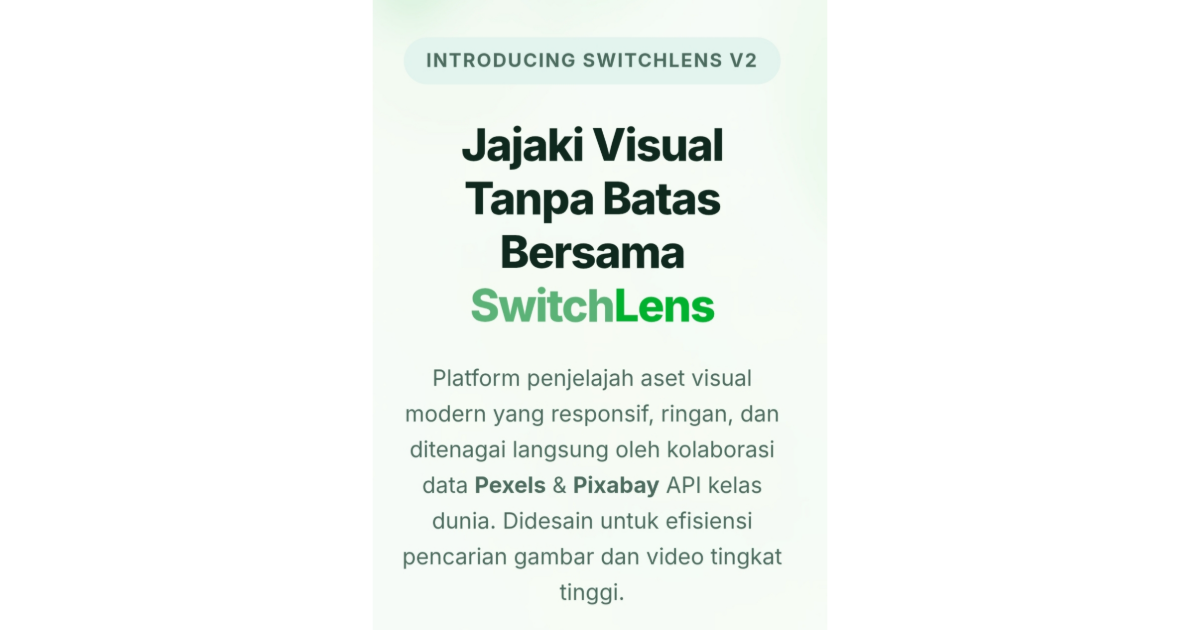
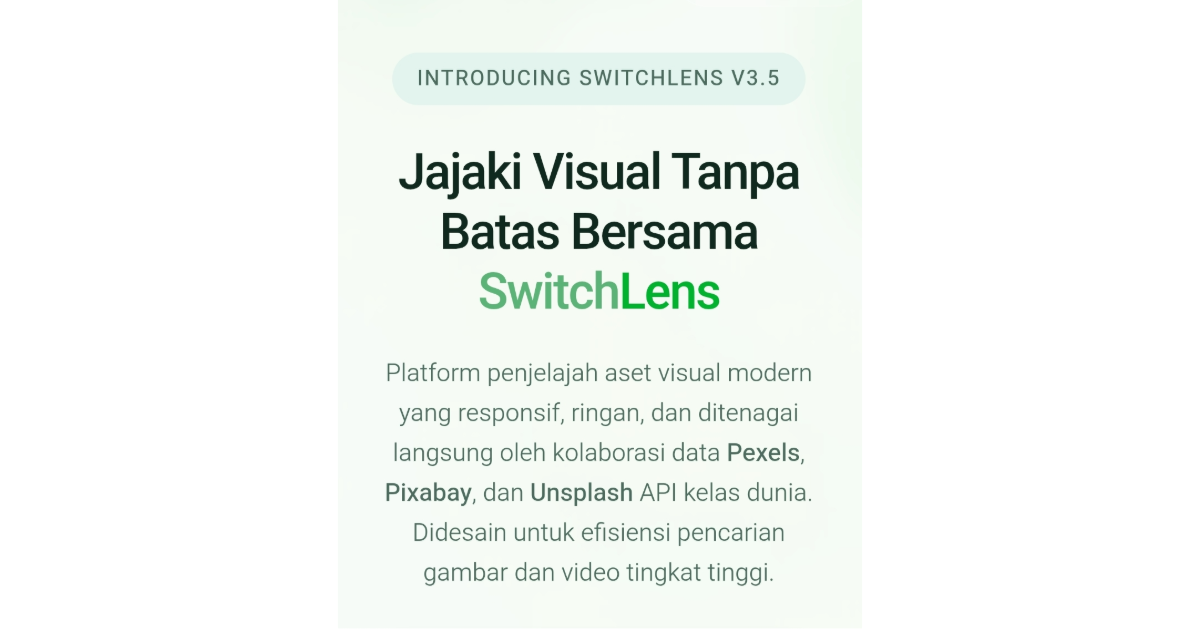
Update 🚀

Changed region(s): [[0.3083, 0.573, 0.6783, 0.9651], [0.3392, 0.181, 0.6783, 0.5127], [0.3392, 0.0603, 0.6475, 0.1508]]

diff --git a/index.html b/index.html
@@ -5,8 +5,8 @@
   <meta name="viewport" content="width=device-width, initial-scale=1.0">
 
   <title>SwitchLens - Penjelajah Aset Visual Pexels, Pixabay, dan Unsplash</title>
-  <meta name="description" content="Temukan dan unduh jutaan foto serta video berkualitas tinggi secara gratis. SwitchLens menggabungkan API Pexels & Pixabay dengan fitur koleksi favorit lokal tanpa batas.">
-  <meta name="keywords" content="SwitchLens, Pexels API, Pixabay API, free stock photos, stock videos, open source media finder, Iyan99">
+  <meta name="description" content="Temukan, jelajahi, dan simpan foto serta video berkualitas tinggi secara gratis dari Pexels, Pixabay, dan Unsplash dalam satu dashboard. Buat akun untuk menyimpan koleksi favorit pribadimu.">
+  <meta name="keywords" content="SwitchLens, Pexels API, Pixabay API, Unsplash API, free stock photos, stock videos, koleksi favorit, Iyan99">
   <meta name="author" content="Iyan99">
   <meta name="robots" content="index, follow">
   <link rel="canonical" href="https://switchlens.vercel.app/">
@@ -14,14 +14,14 @@
   <meta property="og:type" content="website">
   <meta property="og:url" content="https://switchlens.vercel.app/">
   <meta property="og:title" content="SwitchLens - Jajaki Visual Tanpa Batas">
-  <meta property="og:description" content="Platform modern penjelajah aset gambar dan video yang ditenagai oleh integrasi dual API Pexels & Pixabay. Ringan, cepat, dan responsif.">
+  <meta property="og:description" content="Platform modern penjelajah aset gambar dan video yang ditenagai oleh integrasi Pexels, Pixabay, dan Unsplash. Simpan koleksi favoritmu dalam satu akun.">
   <meta property="og:image" content="https://switchlens.vercel.app/assets/og-preview.png">
   <meta property="og:locale" content="id_ID">
 
   <meta property="twitter:card" content="summary_large_image">
   <meta property="twitter:url" content="https://switchlens.vercel.app/">
   <meta property="twitter:title" content="SwitchLens - Jajaki Visual Tanpa Batas">
-  <meta property="twitter:description" content="Gabungan repositori aset visual terbaik dari Pexels dan Pixabay secara simultan dengan optimasi Infinite Scroll.">
+  <meta property="twitter:description" content="Gabungan repositori aset visual terbaik dari Pexels, Pixabay, dan Unsplash dalam satu pencarian, lengkap dengan koleksi favorit pribadi.">
   <meta property="twitter:image" content="https://switchlens.vercel.app/assets/og-preview.png">
 
   <link rel="icon" type="image/png" href="/icons/favicon-96x96.png" sizes="96x96" />
@@ -87,7 +87,7 @@
 
       <div class="feature-card">
         <div class="icon-box">🔀</div>
-        <h3>Dual API Provider Integration</h3>
+        <h3>Multi-Source Provider Integration</h3>
         <p>Menggabungkan repositori aset terbaik dari Pexels, Pixabay, dan Unsplash secara simultan, memberikan variasi hasil pencarian foto dan video yang jauh lebih melimpah.</p>
       </div>
 
@@ -95,6 +95,12 @@
         <div class="icon-box">📱</div>
         <h3>Infinite Scroll Grid</h3>
         <p>Navigasi tanpa batas yang memanfaatkan Intersection Observer API untuk memuat konten secara otomatis begitu Anda mencapai batas bawah halaman.</p>
+      </div>
+
+      <div class="feature-card">
+        <div class="icon-box">❤</div>
+        <h3>Koleksi Favorit Personal</h3>
+        <p>Simpan foto dan video pilihanmu dari sumber manapun ke dalam satu koleksi favorit yang tersimpan permanen di akunmu, dapat diakses kapan saja dari perangkat mana pun.</p>
       </div>
     </div>
   </section>

diff --git a/home.html b/home.html
@@ -5,7 +5,7 @@
   <meta name="viewport" content="width=device-width, initial-scale=1.0">
 
   <title>Dashboard Jelajah - SwitchLens</title>
-  <meta name="description" content="Cari dan temukan stok foto dan video interaktif melalui integrasi pintar SwitchLens API gateway.">
+  <meta name="description" content="Cari dan temukan stok foto serta video dari Pexels, Pixabay, dan Unsplash sekaligus melalui satu dashboard interaktif SwitchLens.">
   <meta name="robots" content="index, follow">
   <link rel="canonical" href="https://switchlens.vercel.app/home.html">
 
@@ -19,13 +19,13 @@
   <meta property="og:type" content="website">
   <meta property="og:url" content="https://switchlens.vercel.app/home.html">
   <meta property="og:title" content="SwitchLens Dashboard - Mulai Jelajah Visual">
-  <meta property="og:description" content="Cari foto, filter video, dan simpan koleksi media langsung ke browser kamu secara instan.">
+  <meta property="og:description" content="Cari foto dan video dari Pexels, Pixabay, dan Unsplash sekaligus, lalu simpan koleksi favoritmu ke akun pribadi.">
   <meta property="og:image" content="https://switchlens.vercel.app/assets/og-preview.png">
   <meta property="og:locale" content="id_ID">
 
   <meta property="twitter:card" content="summary_large_image">
   <meta property="twitter:title" content="SwitchLens Dashboard - Mulai Jelajah Visual">
-  <meta property="twitter:description" content="Cari foto, filter video, dan simpan koleksi media langsung ke browser kamu secara instan.">
+  <meta property="twitter:description" content="Cari foto dan video dari Pexels, Pixabay, dan Unsplash sekaligus, lalu simpan koleksi favoritmu ke akun pribadi.">
   <meta property="twitter:image" content="https://switchlens.vercel.app/assets/og-preview.png">
   
   <meta name="google-site-verification" content="WxDj8l9F1ZDV_EmsvDcZfuHmyfCdKsSxDBabFustOgk" />

diff --git a/js/config.js b/js/config.js
@@ -394,38 +394,23 @@ document.addEventListener("DOMContentLoaded", async () => {
 
 
 function renderAuthNav() {
-    const navContainer = document.querySelector('.navContainerBtn');
-    if (!navContainer) return;
+    const slot = document.getElementById('authNavSlot');
+    if (!slot) return;
 
-    const existing = navContainer.querySelector('.auth-nav-btn');
-    if (existing) existing.remove();
+    slot.innerHTML = "";
 
     const authBtn = document.createElement(isLoggedIn() ? 'button' : 'a');
+    authBtn.className = 'btn-history-action auth-nav-btn';
 
     if (isLoggedIn()) {
         authBtn.textContent = 'Keluar';
-        authBtn.className = 'btnVideo auth-nav-btn';
-        authBtn.style.background = 'transparent';
-        authBtn.style.color = 'var(--lens-color)';
-        authBtn.style.border = '1px solid var(--lens-color)';
-        authBtn.addEventListener('click', () => {
-            logout();
-        });
+        authBtn.addEventListener('click', () => logout());
     } else {
-        authBtn.textContent = 'Masuk';
+        authBtn.textContent = 'Masuk / Daftar';
         authBtn.href = 'login.html';
-        authBtn.className = 'btnVideo auth-nav-btn';
-        authBtn.style.textDecoration = 'none';
-        authBtn.style.display = 'inline-block';
     }
 
-
-    const menuBtn = document.getElementById('menuBtn');
-    if (menuBtn) {
-        navContainer.insertBefore(authBtn, menuBtn);
-    } else {
-        navContainer.appendChild(authBtn);
-    }
+    slot.appendChild(authBtn);
 }
 
 window.addEventListener('offline', () => {

diff --git a/sw.js b/sw.js
@@ -1,5 +1,5 @@
 
-const CACHE_NAME = "switchlens-cache-v1";
+const CACHE_NAME = "switchlens-cache-v2";
 
 const STATIC_ASSETS = [
   "/home.html",
@@ -54,9 +54,38 @@ self.addEventListener("fetch", (event) => {
   const isDynamicContent =
     url.hostname.includes("workers.dev") ||
     url.hostname.includes("pexels.com") ||
-    url.hostname.includes("pixabay.com");
+    url.hostname.includes("pixabay.com") ||
+    url.hostname.includes("unsplash.com");
 
   if (isDynamicContent || event.request.method !== "GET") {
+    return;
+  }
+
+  // HTML dan JS/CSS: NETWORK-FIRST.
+  // Selalu coba ambil versi terbaru dari server dulu; cache hanya
+  // dipakai sebagai fallback kalau benar-benar offline. Ini mencegah
+  // pengguna terjebak di versi lama setelah ada update kode.
+  const isNavigationOrScript =
+    event.request.mode === "navigate" ||
+    url.pathname.endsWith(".html") ||
+    url.pathname.endsWith(".js") ||
+    url.pathname.endsWith(".css");
+
+  if (isNavigationOrScript) {
+    event.respondWith(
+      fetch(event.request)
+        .then((networkResponse) => {
+          return caches.open(CACHE_NAME).then((cache) => {
+            cache.put(event.request, networkResponse.clone());
+            return networkResponse;
+          });
+        })
+        .catch(() => {
+          return caches.match(event.request).then((cachedResponse) => {
+            return cachedResponse || caches.match("/home.html");
+          });
+        })
+    );
     return;
   }
 

diff --git a/guide.html b/guide.html
@@ -137,7 +137,7 @@
       </div>
 
       <div class="slider-wrapper">
-        <p class="slider-hint">Geser untuk melihat screenshot</p>
+        <p class="slider-hint">Geser & Klik untuk melihat screenshot</p>
         <div class="screenshot-slider">
           <img src="assets/guide/pixabay_guide1.jpg" alt="Pixabay Step 1" class="guide-img">
           <img src="assets/guide/pixabay_guide2.jpg" alt="Pixabay Step 2" class="guide-img">
